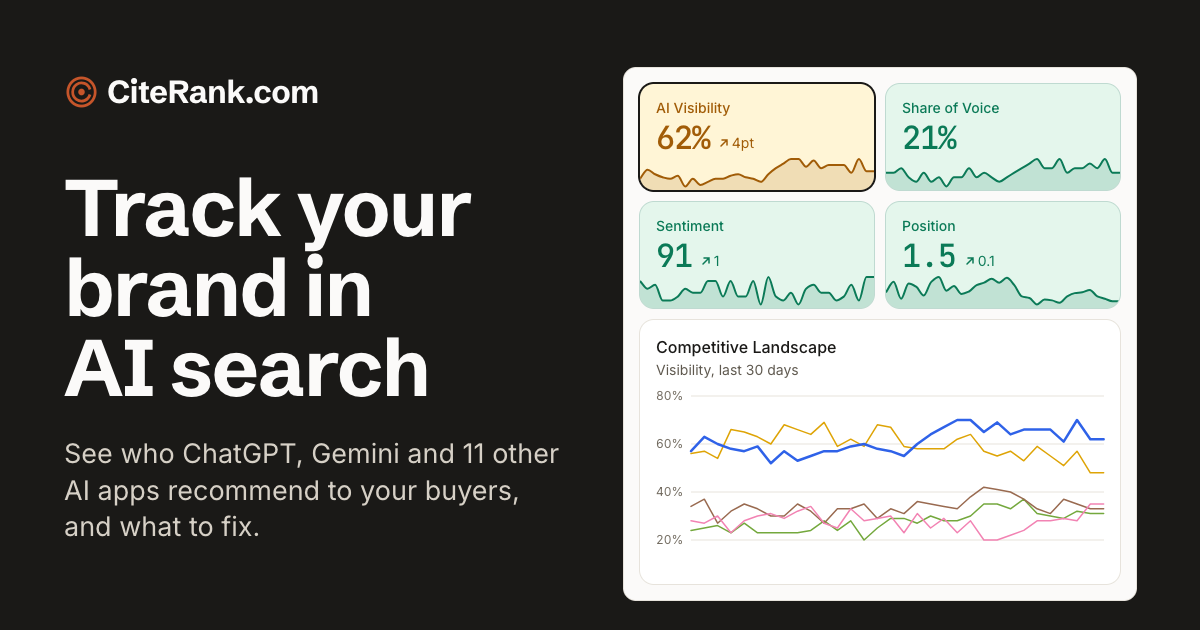
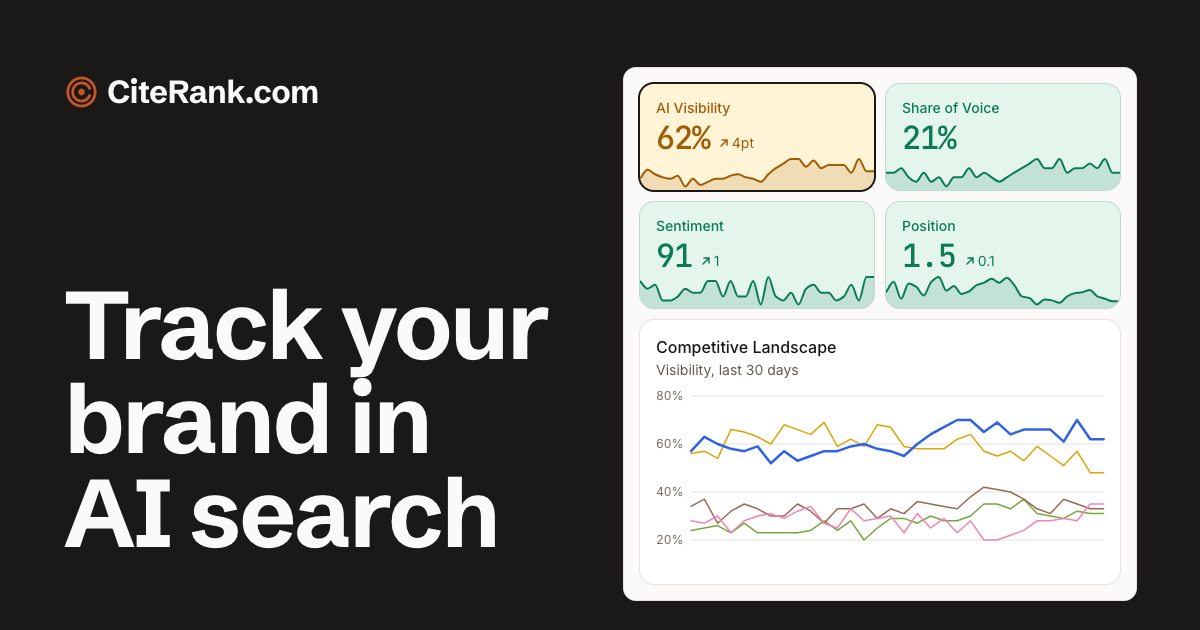
Take the line off the share card and set the headline larger

Changed region(s): [[0.0308, 0.2714, 0.4625, 0.8746]]

diff --git a/scripts/demo-data/share-card.ts b/scripts/demo-data/share-card.ts
@@ -1,6 +1,6 @@
 // Draws the home page's share image, apps/www/public/og-home.png, from the
-// marketing site's own hero: its logo, its headline, its line and its product
-// screen, which is HTML. Nothing in the card is a picture of the dashboard, so
+// marketing site's own hero: its logo, its headline and its product screen,
+// which is HTML. Nothing in the card is a picture of the dashboard, so
 // run it again whenever the hero's words or the sample data change:
 //
 //   SITE_URL=http://localhost:3001 pnpm exec tsx scripts/demo-data/share-card.ts
@@ -30,24 +30,22 @@ async function main(): Promise<void> {
 			const product = document.querySelector<HTMLElement>('main figure[data-kind="product"]');
 			const logo = document.querySelector<HTMLElement>("header nav a span");
 			const title = document.querySelector("h1")?.textContent ?? "";
-			const line = document.querySelector("[data-speakable]")?.textContent ?? "";
 			if (!product || !logo || !title) throw new Error("The home page's hero has changed: no product, logo or headline found.");
 
 			const card = document.createElement("div");
 			card.style.cssText = `position:fixed;left:0;top:0;width:${width}px;height:${height}px;z-index:2147483647;overflow:hidden;background:var(--color-ink);color:var(--color-paper);`;
 
+			/* The logo stands level with the top of the screen and the headline with its foot. */
 			const text = document.createElement("div");
-			text.style.cssText = "position:absolute;left:64px;top:68px;width:500px;";
+			text.style.cssText =
+				"position:absolute;left:64px;top:68px;bottom:70px;width:500px;display:flex;flex-direction:column;justify-content:space-between;";
 			const mark = logo.cloneNode(true) as HTMLElement;
 			mark.style.cssText = "font-size:32px;color:var(--color-paper);";
 			const head = document.createElement("p");
 			head.textContent = title;
 			head.style.cssText =
-				"margin-top:52px;font-family:var(--font-display);font-weight:700;font-size:80px;line-height:1;letter-spacing:-0.02em;text-wrap:balance;";
-			const sub = document.createElement("p");
-			sub.textContent = line;
-			sub.style.cssText = "margin-top:28px;font-size:27px;line-height:1.36;color:var(--color-zinc-300);text-wrap:pretty;";
-			text.append(mark, head, sub);
+				"font-family:var(--font-display);font-weight:700;font-size:96px;line-height:0.98;letter-spacing:-0.025em;text-wrap:balance;";
+			text.append(mark, head);
 
 			/*
 			 * The screen at a phone's width lays its four figures out two by two, large

diff --git a/CHANGES.md b/CHANGES.md
@@ -110,7 +110,7 @@ Paths are from the repo root; `settings/` means `apps/web/src/routes/_authed/app
 | `apps/www/src/lib/seo.ts` | Site URL, name and description; Organization data for Danx Digital Limited; tracker price range. |
 | `apps/www/src/routes/__root.tsx` | Fonts, title, theme colour. No Plausible tag, GitHub star fetch or cookie banner. |
 | `apps/www/src/components/navbar.tsx`, `apps/www/src/components/footer.tsx`, `apps/www/src/components/logo.tsx` | `navbar.tsx` re-exports our floating navigation from `components/citerank/navbar.tsx`; footer with "© year Danx Digital Limited. CiteRank and CiteRank.com are registered trade marks.", an arrow after each mark linking to its own UK IPO record, and a watermark wordmark spanning the content width that fades out towards its baseline. The company name, number and address are on the About page. |
-| `apps/www/public/og-home.png`, `apps/www/src/routes/__root.tsx`, `apps/www/src/routes/index.tsx` | The share card: the homepage's og:image and the site-wide default; pages with their own title keep the generated card from `/og.png`. Redrawn on 2026-11-14 from the home page's own hero (its logo, headline, line and the HTML product's four figures and chart) by `scripts/demo-data/share-card.ts`. The designed card it replaces carried a phone screenshot of the dashboard and the old headline. |
+| `apps/www/public/og-home.png`, `apps/www/src/routes/__root.tsx`, `apps/www/src/routes/index.tsx` | The share card: the homepage's og:image and the site-wide default; pages with their own title keep the generated card from `/og.png`. Redrawn on 2026-11-14 from the home page's own hero (its logo, its headline and the HTML product's four figures and chart) by `scripts/demo-data/share-card.ts`. The designed card it replaces carried a phone screenshot of the dashboard and the old headline. |
 | `apps/www/src/routes/index.tsx`, `apps/www/src/components/home/*` (hero, product-demo, how-it-works, why-switch, models, pricing, closing, faq, styles; new agency.tsx), `apps/www/src/data/hero-variants.ts` | `index.tsx` renders the `components/citerank/home` sections. Elmo's `components/home/*` stay rebranded because the about, industry, feature, pricing and agency pages still use them. The logo strip and reviews are Elmo's, kept with our name for the local demo (see "Before going live"). |
 | `apps/www/src/components/citerank/*` (styles, ui, navbar, home/*) | New. The home page's sections and the floating navigation, built after Basecamp, Plausible, Hubstaff and Crazy Egg. Our own files, so Elmo's home page changes never conflict with them. The review wall there is Elmo's placeholder data (see "Before going live"). |
 | `packages/config/src/plans.ts`, `packages/config/src/referrals.ts`, `packages/config/src/*.test.ts`, `packages/lib/src/entitlements/guards.test.ts`, `packages/lib/src/run-policy/policy.test.ts`, `e2e/tests/cloud/cloud-deployment.spec.ts`, `apps/web/src/stories/*`, `apps/web/src/components/plan-comparison.tsx`, `apps/web/src/routes/_authed/app/org/$org/settings/billing.tsx`, `apps/www/src/lib/faqs.ts`, `apps/www/src/data/*`, `apps/www/src/lib/competitors/content.ts`, `apps/www/src/lib/seo.ts`, `packages/docs/content/docs/*`, `packages/docs/content/blog/*` | No Starter plan: three tracker plans, with Basic ($99/mo) as the entry plan. Every price, limit and entry price on the site and in the docs comes from the catalog. |
